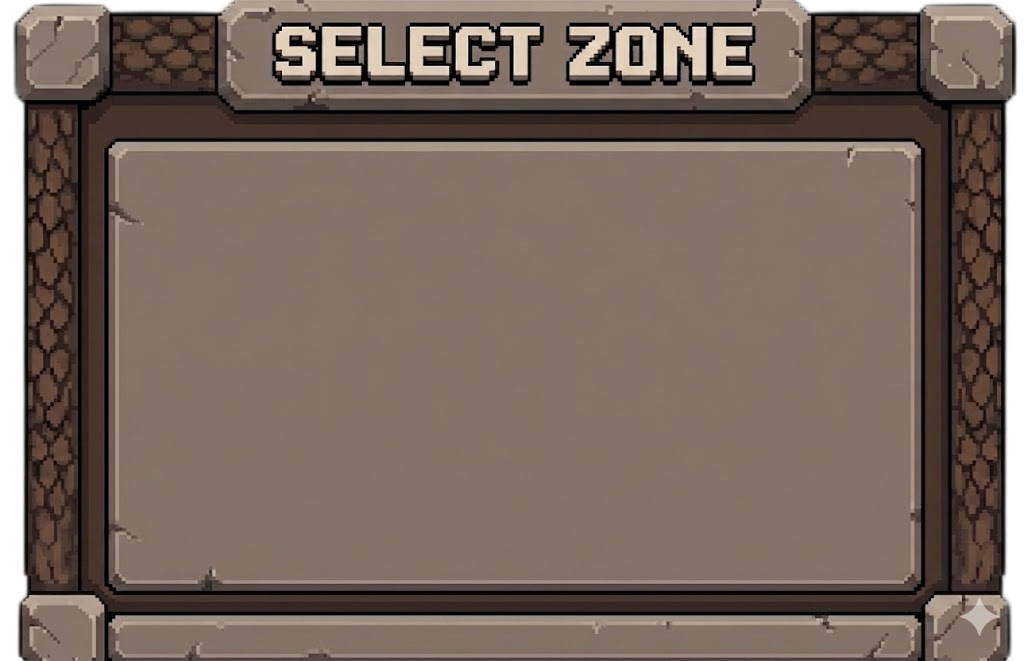
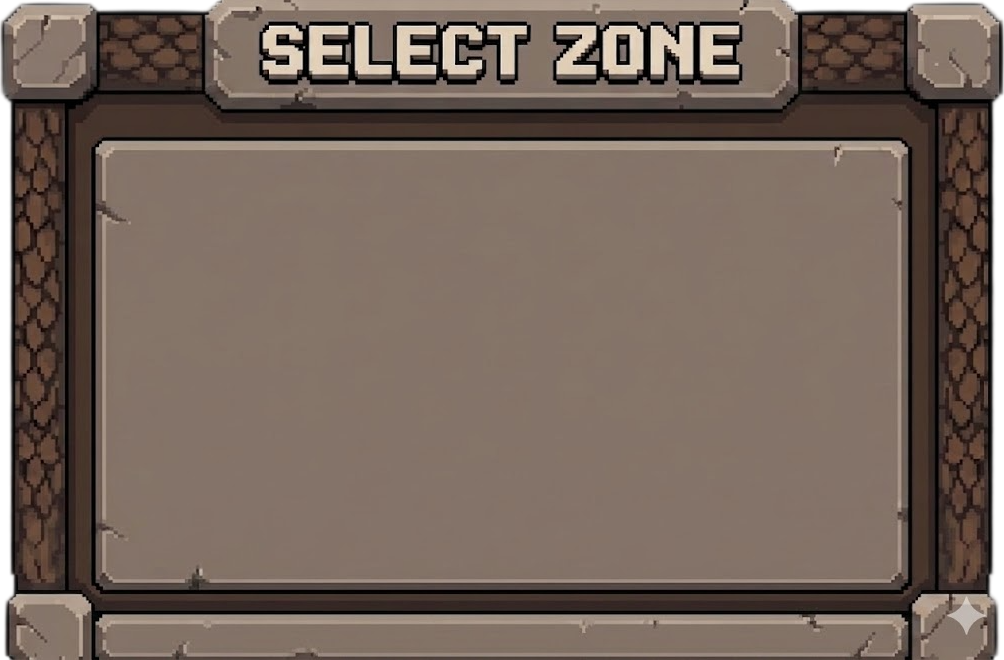
fix: adjusted frame asset and menu bg width

diff --git a/src/scenes/MenuScene.ts b/src/scenes/MenuScene.ts
@@ -2,7 +2,7 @@ import Phaser from 'phaser';
 
 const DINO_KEYS = ['vita', 'mort', 'tard', 'doux'];
 
-const BG_W = 650;
+const BG_W = 660;
 const BG_H = 415;
 const BG_X = 400;
 const BG_Y = 325;
